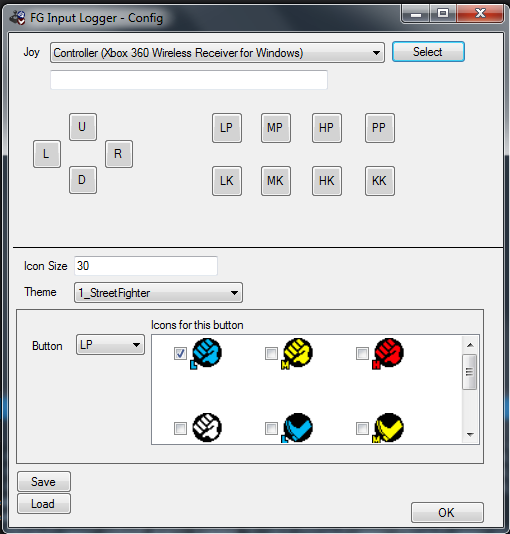
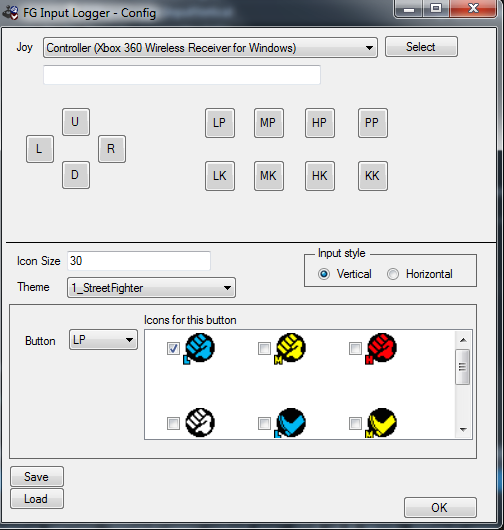
horizontal option

diff --git a/FGInputLogger/Map.Designer.cs b/FGInputLogger/Map.Designer.cs
@@ -60,8 +60,13 @@
             this.label6 = new System.Windows.Forms.Label();
             this.btnSave = new System.Windows.Forms.Button();
             this.btnLoad = new System.Windows.Forms.Button();
+            this.rdbHorizontal = new System.Windows.Forms.RadioButton();
+            this.rdbVertical = new System.Windows.Forms.RadioButton();
+            this.pictureBox3 = new System.Windows.Forms.PictureBox();
+            this.label7 = new System.Windows.Forms.Label();
             ((System.ComponentModel.ISupportInitialize)(this.pictureBox1)).BeginInit();
             ((System.ComponentModel.ISupportInitialize)(this.pictureBox2)).BeginInit();
+            ((System.ComponentModel.ISupportInitialize)(this.pictureBox3)).BeginInit();
             this.SuspendLayout();
             // 
             // cmdDevices
@@ -381,11 +386,54 @@
             this.btnLoad.UseVisualStyleBackColor = true;
             this.btnLoad.Click += new System.EventHandler(this.btnLoad_Click);
             // 
+            // rdbHorizontal
+            // 
+            this.rdbHorizontal.AutoSize = true;
+            this.rdbHorizontal.Location = new System.Drawing.Point(385, 237);
+            this.rdbHorizontal.Name = "rdbHorizontal";
+            this.rdbHorizontal.Size = new System.Drawing.Size(72, 17);
+            this.rdbHorizontal.TabIndex = 31;
+            this.rdbHorizontal.Text = "Horizontal";
+            this.rdbHorizontal.UseVisualStyleBackColor = true;
+            // 
+            // rdbVertical
+            // 
+            this.rdbVertical.AutoSize = true;
+            this.rdbVertical.Checked = true;
+            this.rdbVertical.Location = new System.Drawing.Point(316, 237);
+            this.rdbVertical.Name = "rdbVertical";
+            this.rdbVertical.Size = new System.Drawing.Size(60, 17);
+            this.rdbVertical.TabIndex = 32;
+            this.rdbVertical.TabStop = true;
+            this.rdbVertical.Text = "Vertical";
+            this.rdbVertical.UseVisualStyleBackColor = true;
+            // 
+            // pictureBox3
+            // 
+            this.pictureBox3.BorderStyle = System.Windows.Forms.BorderStyle.FixedSingle;
+            this.pictureBox3.Location = new System.Drawing.Point(302, 226);
+            this.pictureBox3.Name = "pictureBox3";
+            this.pictureBox3.Size = new System.Drawing.Size(173, 33);
+            this.pictureBox3.TabIndex = 33;
+            this.pictureBox3.TabStop = false;
+            // 
+            // label7
+            // 
+            this.label7.AutoSize = true;
+            this.label7.Location = new System.Drawing.Point(313, 218);
+            this.label7.Name = "label7";
+            this.label7.Size = new System.Drawing.Size(55, 13);
+            this.label7.TabIndex = 34;
+            this.label7.Text = "Input style";
+            // 
             // Map
             // 
             this.AutoScaleDimensions = new System.Drawing.SizeF(6F, 13F);
             this.AutoScaleMode = System.Windows.Forms.AutoScaleMode.Font;
             this.ClientSize = new System.Drawing.Size(494, 494);
+            this.Controls.Add(this.label7);
+            this.Controls.Add(this.rdbVertical);
+            this.Controls.Add(this.rdbHorizontal);
             this.Controls.Add(this.btnLoad);
             this.Controls.Add(this.btnSave);
             this.Controls.Add(this.label6);
@@ -417,6 +465,7 @@
             this.Controls.Add(this.label1);
             this.Controls.Add(this.cmdDevices);
             this.Controls.Add(this.pictureBox2);
+            this.Controls.Add(this.pictureBox3);
             this.FormBorderStyle = System.Windows.Forms.FormBorderStyle.FixedDialog;
             this.Icon = ((System.Drawing.Icon)(resources.GetObject("$this.Icon")));
             this.Name = "Map";
@@ -425,6 +474,7 @@
             this.Load += new System.EventHandler(this.Map_Load);
             ((System.ComponentModel.ISupportInitialize)(this.pictureBox1)).EndInit();
             ((System.ComponentModel.ISupportInitialize)(this.pictureBox2)).EndInit();
+            ((System.ComponentModel.ISupportInitialize)(this.pictureBox3)).EndInit();
             this.ResumeLayout(false);
             this.PerformLayout();
 
@@ -463,5 +513,9 @@
         private System.Windows.Forms.Label label6;
         private System.Windows.Forms.Button btnSave;
         private System.Windows.Forms.Button btnLoad;
+        private System.Windows.Forms.RadioButton rdbHorizontal;
+        private System.Windows.Forms.RadioButton rdbVertical;
+        private System.Windows.Forms.PictureBox pictureBox3;
+        private System.Windows.Forms.Label label7;
     }
 }

diff --git a/FGInputLogger/InputVertical.cs b/FGInputLogger/InputVertical.cs
@@ -29,6 +29,8 @@ namespace FGInputLogger
         public Timer timer = new Timer();
         public Dictionary<int, List<int>> ImageMap = new Dictionary<int, List<int>>();
 
+        bool Vertical= true;
+
         public InputVertical()
         {
             InitializeComponent();
@@ -36,7 +38,7 @@ namespace FGInputLogger
 
             FormBorderStyle = FormBorderStyle.SizableToolWindow;
             MinimumSize = new Size(1, 1);
-            Size = new Size(200, 600);
+
 
 
            var config =  new Map();
@@ -51,6 +53,12 @@ namespace FGInputLogger
             this.inputSize = config.IconSize;
             this.folder = config.Theme;
             this.ImageMap = config.ImageMap;
+            Vertical = config.Vertical;
+
+            if (Vertical)
+                Size = new Size(200, 600);
+            else
+                Size = new Size(600, 200);
 
             timer.Interval = 1000 / 60;
             timer.Tick += Timer_Tick;
@@ -179,7 +187,7 @@ namespace FGInputLogger
 
         private void InputVertical_Paint(object sender, PaintEventArgs e)
         {
-            while (inputs.Count * inputSize >= this.Height - inputSize * 2)  {
+            while (inputs.Count * inputSize >= (Vertical ? this.Height : this.Width) - inputSize * 2)  {
                 inputs.Remove(inputs.Last());
             }
 
@@ -202,7 +210,12 @@ namespace FGInputLogger
                                 {
                                     var img = Image.FromFile(file);
                                     img = ResizeImage(img, inputSize, inputSize);
-                                    e.Graphics.DrawImage(img, space + 5 + inputSize * j , i * inputSize + 5);
+
+                                    if (Vertical)
+                                        e.Graphics.DrawImage(img, space + 5 + inputSize * j , i * inputSize + 5);
+                                    else
+                                        e.Graphics.DrawImage(img,i * inputSize + 5, space + 5 + inputSize * j);
+
                                     space += inputSize;
                                 }
                             }
@@ -216,8 +229,11 @@ namespace FGInputLogger
                             {
                                 var img = Image.FromFile(file);
                                 img = ResizeImage(img, inputSize, inputSize);
-                                e.Graphics.DrawImage(img, 5 + inputSize * j, i * inputSize + 5);
 
+                                if (Vertical)
+                                    e.Graphics.DrawImage(img, 5 + inputSize * j, i * inputSize + 5);
+                                else
+                                    e.Graphics.DrawImage(img, i * inputSize + 5, 5 + inputSize * j);
                             }
                         }
                     

diff --git a/FGInputLogger/Map.cs b/FGInputLogger/Map.cs
@@ -23,7 +23,26 @@ namespace FGInputLogger
         public string Theme = "";
         public bool OK =  false;
         public Dictionary<int, List<int>> ImageMap = new Dictionary<int, List<int>>();
-        
+
+        private int myVar;
+
+
+
+        public bool Vertical
+        {
+            get
+            {
+                return rdbVertical.Checked;
+            }
+        }
+
+
+
+        public bool Horizontal {
+            get {
+                return rdbHorizontal.Checked;
+            }
+        }
 
         public Map()
         {
@@ -418,5 +437,7 @@ namespace FGInputLogger
                 }                
             }
         }
+
+        
     }
 }
